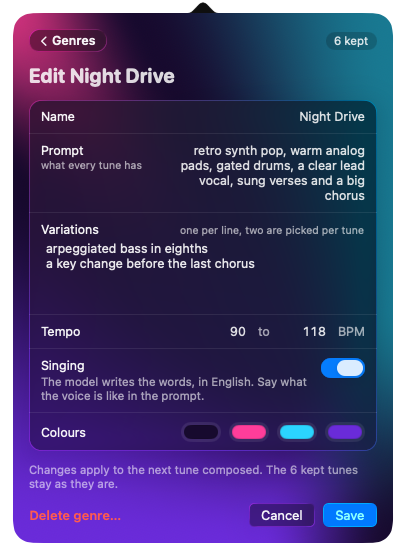
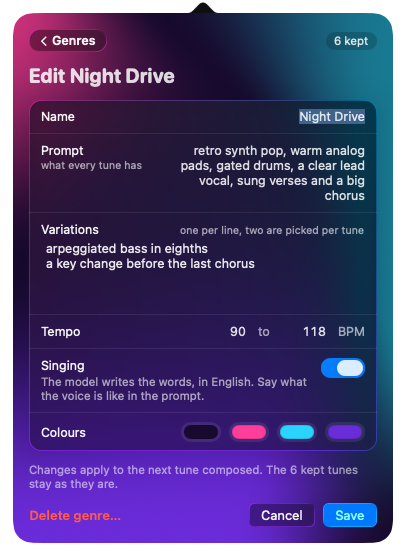
docs: screenshots of the round and Previous; the README on both
All seven pictures retaken from the demo as the app draws now: the
player's round list with the playing tune highlighted and Previous by
play, and the editor's grouped rows. What it does describes the round
held in order and Previous.

diff --git a/README.md b/README.md
@@ -5,7 +5,7 @@ by ACE-Step 1.5 Turbo through an embedded `ace-server` running on the GPU.
 Nothing is sent anywhere once the model is downloaded.
 
 <p align="center">
-  <img src="docs/screenshots/playing.png" width="380" alt="The SwiftTunes popover playing a Jazz tune: its name, tempo and key, the tune's shape as columns of dots filled up to the position, six round controls, the next three tunes numbered in play order with nine more this round, the tune being made, and the composer bar.">
+  <img src="docs/screenshots/playing.png" width="380" alt="The SwiftTunes popover playing a Jazz tune: its name, tempo and key, the tune's shape as columns of dots filled up to the position, and seven round controls with Previous left of the play button. Below, This round reads 5 of 12: the playing tune is highlighted with a small level meter in place of its number, followed by tunes 6 and 7 and five more this round; then the tune being made, and the composer bar.">
 </p>
 
 SwiftTunes is inspired by [Flowtunes](https://github.com/omacom/flowtunes)
@@ -19,16 +19,22 @@ from Omarchy.
 - **Tunes kept, tunes made.** A genre plays the tunes kept for it. Turn the
   composer on and it writes new ones and keeps two ready ahead; a new tune
   plays next. The newest 50 of a genre are kept.
-- **The queue in play order.** Up next lists what will play, numbered, new
-  tunes first, then the kept ones in the round's order, shuffled or in the
-  order made. Every kept tune plays once a round; repeat all, one or off.
-  What is being made shows apart, under it.
+- **The round, held in order.** This round lists every tune of the round in
+  one order: the ones already played, the playing one, then what waits. A
+  tune keeps its number as the round goes on; only a newly made tune, which
+  plays next, moves the ones after it down by one. Played tunes stay in the
+  list, dimmed, and any of them can be played again. Every kept tune plays
+  once a round, shuffled or in the order made; repeat all, one or off. What
+  is being made shows apart, under it.
+- **Previous.** Within the first three seconds of a tune, Previous goes back
+  to the one before it in the round; later, it starts the tune again. The
+  Previous media key does the same.
 - **Sung genres and your own words.** A sung genre's tunes have words,
   written by the model in English; the words of the playing tune open under
   it. From a sung genre you can also ask for one tune sung with words you
   write.
-- **Scrap and undo.** Scrap the playing tune or a queued one and it can be
-  brought back for ten seconds; scrapping the one being made stops it.
+- **Scrap and undo.** Scrap any tune in the round and it can be brought back
+  for ten seconds; scrapping the one being made stops it.
 - **Keep for good.** A tune kept for good is never removed by the newest-50
   rule.
 - **Share and drag out.** Drag a tune's picture out of the popover to drop
@@ -43,13 +49,13 @@ from Omarchy.
 
 <table>
   <tr>
-    <td><img src="docs/screenshots/composing.png" width="250" alt="Nothing playing yet in Synthwave: the hero shows a moving wave of dots while the first tune is written, and a separate Being made list shows the tune being written and one not started."></td>
-    <td><img src="docs/screenshots/lyrics.png" width="250" alt="A sung tune playing, with tempo, key and the word sung under its name; the wave has shrunk to a thin strip and the words show in a scrolling box headed Lyrics as written."></td>
+    <td><img src="docs/screenshots/composing.png" width="250" alt="Nothing playing yet in Synthwave: the hero shows a wave of dots that moves while the first tune is written, This round has nothing in it yet, and a separate Being made list shows the tune being written and one not started."></td>
+    <td><img src="docs/screenshots/lyrics.png" width="250" alt="A sung tune playing, with tempo, key and the word sung under its name; the wave has shrunk to a thin strip and the words show in a scrolling box headed Lyrics as written. Below the controls, This round reads 1 of 5 with the playing tune highlighted."></td>
     <td><img src="docs/screenshots/genres.png" width="250" alt="The genre chooser: nine genres as tiles in their own colours, each with its kept count or what is playing, and a dashed tile to add a new genre."></td>
   </tr>
   <tr>
     <td><img src="docs/screenshots/own-words.png" width="250" alt="The sheet for a tune with your own words: buttons that insert verse, chorus, bridge and instrumental break marks, a text box with the words, a count of sung lines and characters, a suggested name, and Compose."></td>
-    <td><img src="docs/screenshots/editor.png" width="250" alt="Editing a sung genre: name, prompt, variations, tempo range, the Singing switch with its explanation, four colour wells, and the buttons to delete, cancel or save."></td>
+    <td><img src="docs/screenshots/editor.png" width="250" alt="Editing a sung genre in grouped rows, its name selected for typing: prompt, variations, tempo range, the Singing switch with its explanation, four colour wells, and the buttons to delete, cancel or save."></td>
     <td><img src="docs/screenshots/playing-light.png" width="250" alt="The playing state in light appearance: the same layout on a pale wash of the genre's colours with dark text."></td>
   </tr>
 </table>
